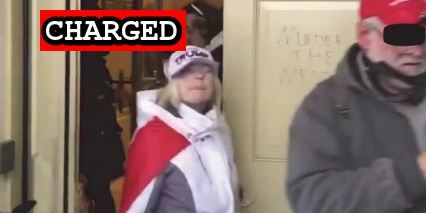
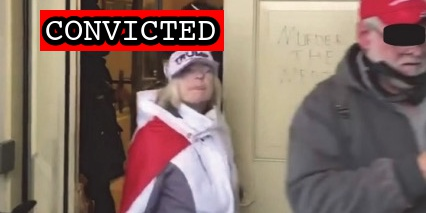
Latest plea

Changed region(s): [[0.0915, 0.0282, 0.5493, 0.2535]]

diff --git a/docs/_suspects/lois-mcnicoll.md b/docs/_suspects/lois-mcnicoll.md
@@ -4,15 +4,17 @@ lastName: McNicoll
 hashtag: LoisMcNicoll
 aka:
 residence: California
-status: Charged
+status: Convicted
 date: 2021-06-23
 charged: 2021-06-23
 indicted:
-convicted:
+convicted: 2022-05-23
+acquitted:
 sentenced:
 dismissed:
 deceased:
-plea_hearing:
+plea_hearing: 2022-05-23
+trial_date:
 sentencing:
 age: 69
 occupation:
@@ -34,8 +36,14 @@ published: true
 caseNumber: 1:21-mj-491
 videos:
 charges:
+- code: 40 USC § 5104(e)(2)(G)
+  title: Parading, demonstrating or picketing in a Capitol building
+  url: https://www.law.cornell.edu/uscode/text/40/5104
+  felony: false
 sentence:
 ---
 - [News Report](https://www.msn.com/en-us/news/crime/la-county-employee-charged-for-allegedly-breaching-capitol/ar-AALyJCO)
 - [Statement of Facts](https://www.justice.gov/usao-dc/case-multi-defendant/file/1412491/download)
 - [Information](https://www.justice.gov/usao-dc/case-multi-defendant/file/1415811/download)
+- [Plea Agreement](https://www.justice.gov/usao-dc/case-multi-defendant/file/1507831/download)
+- [Statement of Offense](https://www.justice.gov/usao-dc/case-multi-defendant/file/1507836/download)
